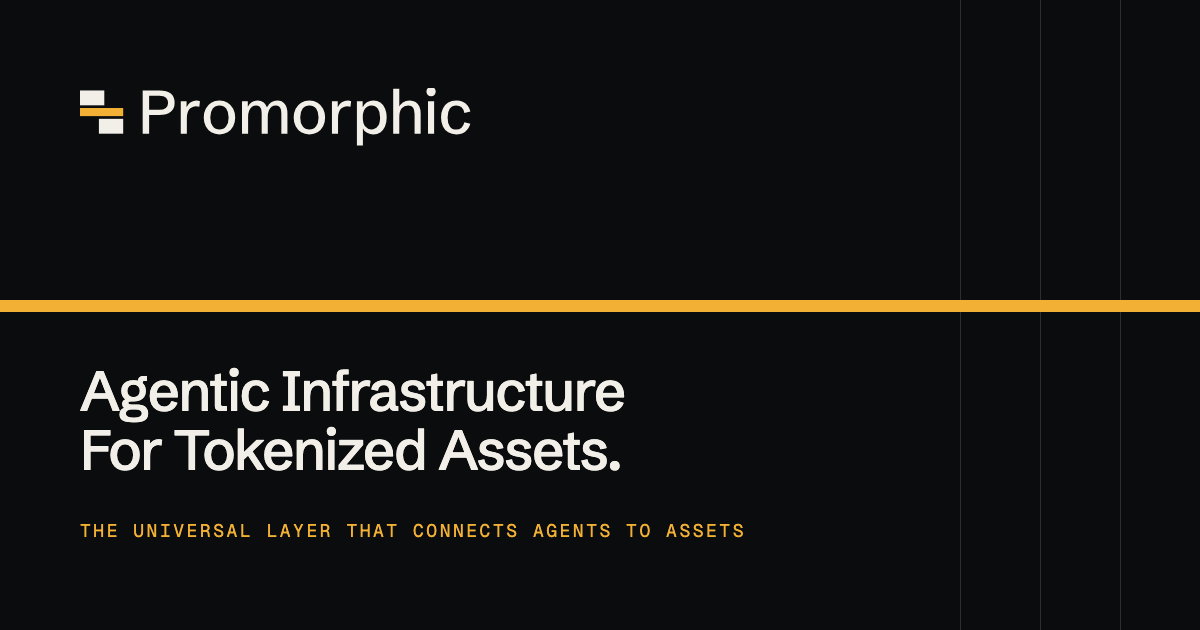
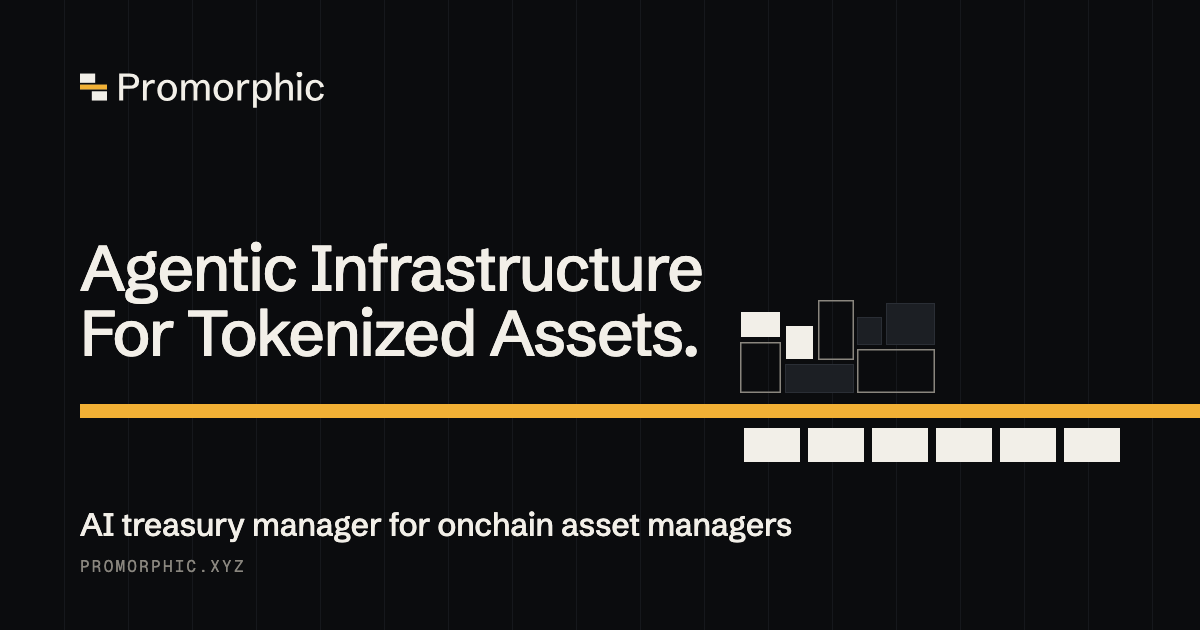
AI treasury manager for onchain asset managers: new share card in the X header's style, link-preview text, hero line, search description, structured data and llms.txt

Changed region(s): [[0.0, 0.3921, 1.0, 0.754], [0.0617, 0.8143, 0.6783, 0.9048], [0.0617, 0.1206, 0.4008, 0.2413]]

diff --git a/index.html b/index.html
@@ -4,27 +4,27 @@
   <meta charset="UTF-8">
   <meta name="viewport" content="width=device-width, initial-scale=1.0">
   <title>Promorphic — Agentic Infrastructure For Tokenized Assets</title>
-  <meta name="description" content="Promorphic is agentic infrastructure for tokenized assets: one layer that lets AI agents discover, hold, move and redeem any tokenized asset, on any chain.">
+  <meta name="description" content="Promorphic is an AI treasury manager for onchain asset managers: one layer that lets agents discover, hold, move and redeem tokenized assets on any chain.">
   <meta name="robots" content="index, follow, max-image-preview:large, max-snippet:-1">
   <link rel="canonical" href="https://promorphic.xyz/">
   <meta property="og:site_name" content="Promorphic">
   <meta property="og:title" content="Promorphic — Agentic Infrastructure For Tokenized Assets">
-  <meta property="og:description" content="The universal layer that connects agents to assets.">
+  <meta property="og:description" content="AI treasury manager for onchain asset managers.">
   <meta property="og:type" content="website">
   <meta property="og:url" content="https://promorphic.xyz/">
-  <meta property="og:image" content="https://promorphic.xyz/brand/og-image.png?v=2">
+  <meta property="og:image" content="https://promorphic.xyz/brand/og-image.png?v=3">
   <meta property="og:image:width" content="1200">
   <meta property="og:image:height" content="630">
-  <meta property="og:image:alt" content="Promorphic. Agentic Infrastructure For Tokenized Assets. The universal layer that connects agents to assets.">
+  <meta property="og:image:alt" content="Promorphic. Agentic Infrastructure For Tokenized Assets. AI treasury manager for onchain asset managers.">
   <meta name="twitter:card" content="summary_large_image">
   <meta name="twitter:site" content="@_promorphic">
   <meta name="twitter:title" content="Promorphic — Agentic Infrastructure For Tokenized Assets">
-  <meta name="twitter:description" content="The universal layer that connects agents to assets.">
-  <meta name="twitter:image" content="https://promorphic.xyz/brand/og-image.png?v=2">
+  <meta name="twitter:description" content="AI treasury manager for onchain asset managers.">
+  <meta name="twitter:image" content="https://promorphic.xyz/brand/og-image.png?v=3">
   <meta name="theme-color" content="#0b0c0e" media="(prefers-color-scheme: dark)">
   <meta name="theme-color" content="#f7f5f0" media="(prefers-color-scheme: light)">
   <meta name="color-scheme" content="dark light">
-  <script type="application/ld+json">{"@context":"https://schema.org","@graph":[{"@type":"Organization","@id":"https://promorphic.xyz/#org","name":"Promorphic","url":"https://promorphic.xyz/","logo":"https://promorphic.xyz/brand/icon-512.png","email":"founders@promorphic.xyz","sameAs":["https://x.com/_promorphic"],"description":"Agentic infrastructure for tokenized assets. The universal layer that connects AI agents to tokenized real-world assets across every issuer, venue and chain.","knowsAbout":["tokenized assets","real-world asset tokenization","AI agents","agentic infrastructure","onchain finance","Canton Network","Ethereum","Stellar"]},{"@type":"WebSite","@id":"https://promorphic.xyz/#site","url":"https://promorphic.xyz/","name":"Promorphic","publisher":{"@id":"https://promorphic.xyz/#org"},"inLanguage":"en"},{"@type":"WebPage","@id":"https://promorphic.xyz/#page","url":"https://promorphic.xyz/","name":"Promorphic — Agentic Infrastructure For Tokenized Assets","isPartOf":{"@id":"https://promorphic.xyz/#site"},"about":{"@id":"https://promorphic.xyz/#org"},"primaryImageOfPage":"https://promorphic.xyz/brand/og-image.png","dateModified":"2026-10-16"},{"@type":"FAQPage","@id":"https://promorphic.xyz/#faq","mainEntity":[{"@type":"Question","name":"What is Promorphic?","acceptedAnswer":{"@type":"Answer","text":"Promorphic is agentic infrastructure for tokenized assets: a universal layer that lets AI agents discover, price, hold, move, redeem and pledge tokenized real-world assets (RWAs) across every issuer, venue and chain, through one connection."}},{"@type":"Question","name":"What is a tokenized asset?","acceptedAnswer":{"@type":"Answer","text":"A tokenized asset is a real-world asset, such as a Treasury fund, a money-market fund, private credit or equity, issued as a token on a blockchain, so it can be held, transferred and settled onchain. Promorphic makes every tokenized asset look the same to an agent, whatever its issuer or chain."}},{"@type":"Question","name":"What is agentic infrastructure?","acceptedAnswer":{"@type":"Answer","text":"Infrastructure built with software agents as the user. Every rule, price, eligibility check and venue is exposed in a form an agent can read, check and act on, under limits its owner sets, with every action recorded."}},{"@type":"Question","name":"Which chains and tokenization platforms does Promorphic reach?","acceptedAnswer":{"@type":"Answer","text":"Tokenized assets on Ethereum, Canton, Stellar and Robinhood Chain, from issuers and platforms such as Securitize, Ondo, Superstate, Franklin Templeton, BlackRock BUIDL and Centrifuge. Naming a venue says where an agent can act; it does not imply a partnership."}},{"@type":"Question","name":"How does Promorphic keep an agent from making a bad trade?","acceptedAnswer":{"@type":"Answer","text":"Every action is rehearsed against the venue’s own rules before it is sent, so nothing bounces and nothing goes through by accident. Every agent acts under a mandate its owner sets, one switch stops it, and every action is recorded."}},{"@type":"Question","name":"Who is Promorphic for?","acceptedAnswer":{"@type":"Answer","text":"Agent platforms and wallets, treasuries and trading desks, asset issuers, and financial institutions on permissioned rails."}},{"@type":"Question","name":"How do I get access?","acceptedAnswer":{"@type":"Answer","text":"Promorphic is in private beta. Request access at founders@promorphic.xyz and we’ll be in touch within a week."}}]}]}</script>
+  <script type="application/ld+json">{"@context":"https://schema.org","@graph":[{"@type":"Organization","@id":"https://promorphic.xyz/#org","name":"Promorphic","url":"https://promorphic.xyz/","logo":"https://promorphic.xyz/brand/icon-512.png","email":"founders@promorphic.xyz","sameAs":["https://x.com/_promorphic"],"description":"Agentic infrastructure for tokenized assets: an AI treasury manager for onchain asset managers, one layer that connects AI agents to tokenized real-world assets across every issuer, venue and chain.","knowsAbout":["tokenized assets","real-world asset tokenization","AI agents","agentic infrastructure","onchain finance","Canton Network","Ethereum","Stellar"]},{"@type":"WebSite","@id":"https://promorphic.xyz/#site","url":"https://promorphic.xyz/","name":"Promorphic","publisher":{"@id":"https://promorphic.xyz/#org"},"inLanguage":"en"},{"@type":"WebPage","@id":"https://promorphic.xyz/#page","url":"https://promorphic.xyz/","name":"Promorphic — Agentic Infrastructure For Tokenized Assets","isPartOf":{"@id":"https://promorphic.xyz/#site"},"about":{"@id":"https://promorphic.xyz/#org"},"primaryImageOfPage":"https://promorphic.xyz/brand/og-image.png","dateModified":"2026-10-28"},{"@type":"FAQPage","@id":"https://promorphic.xyz/#faq","mainEntity":[{"@type":"Question","name":"What is Promorphic?","acceptedAnswer":{"@type":"Answer","text":"Promorphic is agentic infrastructure for tokenized assets: a universal layer that lets AI agents discover, price, hold, move, redeem and pledge tokenized real-world assets (RWAs) across every issuer, venue and chain, through one connection."}},{"@type":"Question","name":"What is a tokenized asset?","acceptedAnswer":{"@type":"Answer","text":"A tokenized asset is a real-world asset, such as a Treasury fund, a money-market fund, private credit or equity, issued as a token on a blockchain, so it can be held, transferred and settled onchain. Promorphic makes every tokenized asset look the same to an agent, whatever its issuer or chain."}},{"@type":"Question","name":"What is agentic infrastructure?","acceptedAnswer":{"@type":"Answer","text":"Infrastructure built with software agents as the user. Every rule, price, eligibility check and venue is exposed in a form an agent can read, check and act on, under limits its owner sets, with every action recorded."}},{"@type":"Question","name":"Which chains and tokenization platforms does Promorphic reach?","acceptedAnswer":{"@type":"Answer","text":"Tokenized assets on Ethereum, Canton, Stellar and Robinhood Chain, from issuers and platforms such as Securitize, Ondo, Superstate, Franklin Templeton, BlackRock BUIDL and Centrifuge. Naming a venue says where an agent can act; it does not imply a partnership."}},{"@type":"Question","name":"How does Promorphic keep an agent from making a bad trade?","acceptedAnswer":{"@type":"Answer","text":"Every action is rehearsed against the venue’s own rules before it is sent, so nothing bounces and nothing goes through by accident. Every agent acts under a mandate its owner sets, one switch stops it, and every action is recorded."}},{"@type":"Question","name":"Who is Promorphic for?","acceptedAnswer":{"@type":"Answer","text":"Agent platforms and wallets, treasuries and trading desks, asset issuers, and financial institutions on permissioned rails."}},{"@type":"Question","name":"How do I get access?","acceptedAnswer":{"@type":"Answer","text":"Promorphic is in private beta. Request access at founders@promorphic.xyz and we’ll be in touch within a week."}}]}]}</script>
   <link rel="icon" href="/favicon.svg" type="image/svg+xml">
   <link rel="icon" href="/favicon.ico" sizes="32x32">
   <link rel="apple-touch-icon" href="/apple-touch-icon.png">
@@ -50,7 +50,7 @@
     "name": "Promorphic",
     "url": "https://promorphic.xyz/",
     "logo": "https://promorphic.xyz/brand/icon-512.png",
-    "description": "Agentic Infrastructure For Tokenized Assets. The universal layer that connects agents to assets.",
+    "description": "Agentic Infrastructure For Tokenized Assets. AI treasury manager for onchain asset managers.",
     "email": "founders@promorphic.xyz",
     "sameAs": ["https://x.com/_promorphic"]
   }
@@ -543,7 +543,7 @@
     </div>
     <div class="container">
       <h1 class="display-xl"><span class="hl">Agentic Infrastructure <br>For Tokenized Assets.</span></h1>
-      <p class="lead sub measure"><strong>The universal layer that connects agents to assets.</strong><br><strong>Connect once and an agent can act on any tokenized asset.</strong><br><strong class="b u-brand">Wherever it trades.</strong></p>
+      <p class="lead sub measure"><strong>AI treasury manager for onchain asset managers.</strong><br><strong>Connect once and an agent can act on any tokenized asset.</strong><br><strong class="b u-brand">Wherever it trades.</strong></p>
       <div class="actions">
         <a class="btn btn-primary" href="https://docs.promorphic.xyz" target="_blank" rel="noopener noreferrer">Docs</a>
         <a class="btn btn-secondary" href="#layer">See the layer</a>

diff --git a/brand-guide/index.html b/brand-guide/index.html
@@ -627,7 +627,7 @@
         <tr><td>PNG (transparent)</td><td>marks 128 · 256 · 512 · 1024 px; tile 180 · 192 · 512 · 1024 px; wordmarks 600 · 1200 · 2400 px wide</td><td>decks, docs, app icons, partner pages</td></tr>
         <tr><td>JPEG (on its ground)</td><td>marks 512 · 1024 px; tile 1024 px; wordmarks 1200 · 2400 px wide</td><td>forms and tools that refuse transparency</td></tr>
       </table>
-      <a class="dl" href="/brand/promorphic-logo-set.zip" download><span aria-hidden="true">↓</span><span class="dl-name">Promorphic logo set (.zip)</span><span class="dl-meta">SVG · PNG · JPEG · 572 KB</span></a>
+      <a class="dl" href="/brand/promorphic-logo-set.zip" download><span aria-hidden="true">↓</span><span class="dl-name">Promorphic logo set (.zip)</span><span class="dl-meta">SVG · PNG · JPEG · 576 KB</span></a>
     </section>
 
     <section class="bg-section" id="colour">
@@ -719,7 +719,7 @@
 
     <section class="bg-section" id="downloads">
       <h2 class="display-lg">Downloads</h2>
-      <a class="dl" href="/brand/promorphic-logo-set.zip" download><span aria-hidden="true">↓</span><span class="dl-name">Promorphic logo set (.zip)</span><span class="dl-meta">SVG · PNG · JPEG · 572 KB</span></a>
+      <a class="dl" href="/brand/promorphic-logo-set.zip" download><span aria-hidden="true">↓</span><span class="dl-name">Promorphic logo set (.zip)</span><span class="dl-meta">SVG · PNG · JPEG · 576 KB</span></a>
       <a class="dl" href="/brand-guide/promorphic-brand-guide.pdf"><span aria-hidden="true">↓</span><span class="dl-name">Promorphic brand guide (.pdf)</span><span class="dl-meta">this page, printed</span></a>
       <a class="dl" href="/brand/og-image.png"><span aria-hidden="true">↓</span><span class="dl-name">Share card (1200 × 630)</span><span class="dl-meta">PNG</span></a>
       <div class="links-row">
